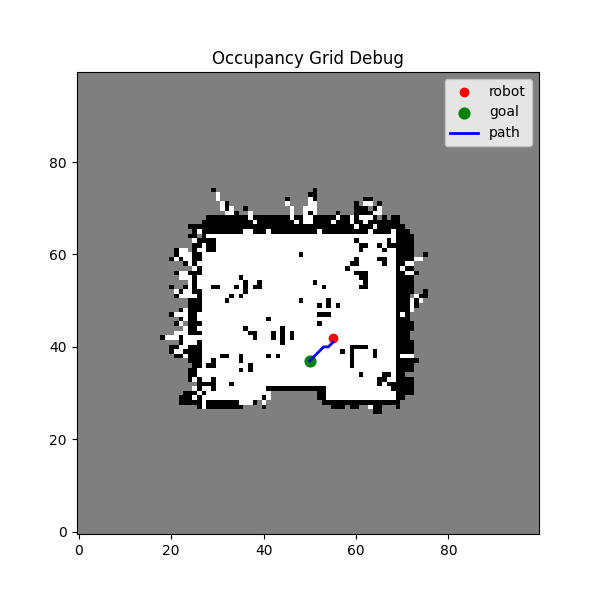
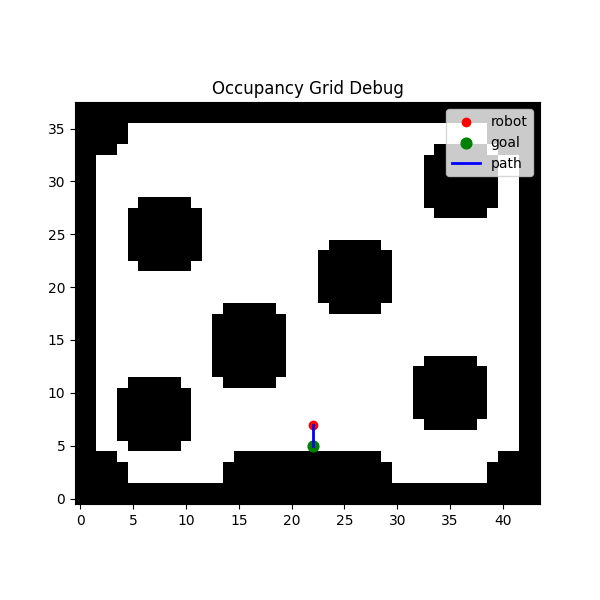
update

diff --git a/trabalho/trabalho/controllers/restaurant_epuck/restaurant_epuck.py b/trabalho/trabalho/controllers/restaurant_epuck/restaurant_epuck.py
@@ -64,7 +64,7 @@ AXLE_LENGTH = 0.052
 
 EXP1_MODE = "EXP1"
 EXP2_MODE = "EXP2"
-EXPERIMENT_MODE = EXP2_MODE
+EXPERIMENT_MODE = EXP1_MODE
 SERVICE_TIME = 2.0
 REQUEST_CHANNEL = 1
 DONE_CHANNEL = 2

diff --git a/trabalho/trabalho/controllers/dynamic_obstacles_manager/dynamic_obstacles_manager.py b/trabalho/trabalho/controllers/dynamic_obstacles_manager/dynamic_obstacles_manager.py
@@ -51,7 +51,7 @@ its LiDAR and proximity sensors.
 """
 
 TIME_STEP = 32
-DYNAMIC_ENVIRONMENT = False
+DYNAMIC_ENVIRONMENT = True
 
 SCENARIO_PERIOD = 95.0
 

diff --git a/trabalho/trabalho/scripts/results/policy_comparison_20260519_230239/policy_comparison_readable.md b/trabalho/trabalho/scripts/results/policy_comparison_20260519_230239/policy_comparison_readable.md
@@ -1,0 +1,73 @@
+# Comparacao das Politicas de Atendimento
+
+Teste realizado sem obstaculos dinamicos ativos (`DYNAMIC_ENVIRONMENT = False`).
+
+Foram comparadas tres politicas:
+
+- **FIFO**: atende os pedidos pela ordem de chegada.
+- **NEAREST**: atende primeiro a mesa mais proxima do robo.
+- **HYBRID**: combina tempo de espera e distancia.
+
+## Ranking final
+
+O ranking foi feito usando o **fair objective**:
+
+```text
+fair_objective = effective_wait_mean + 0.25 * effective_wait_max
+```
+
+Quanto menor o valor, melhor.
+
+| Rank | Politica | Fair objective | Effective wait medio | Effective wait maximo | Wait medio | Pending medio |
+|---:|---|---:|---:|---:|---:|---:|
+| 1 | NEAREST | 163.183s | 86.416s | 307.070s | 34.739s | 189.768s |
+| 2 | HYBRID | 178.566s | 118.934s | 238.530s | 117.970s | 121.730s |
+| 3 | FIFO | 189.288s | 123.040s | 264.990s | 127.060s | 111.382s |
+
+## Leitura rapida
+
+### Melhor resultado global: NEAREST
+
+A politica **NEAREST** teve o melhor resultado no ranking final.
+
+O principal motivo e que reduziu muito o tempo medio de espera dos pedidos servidos:
+
+```text
+NEAREST wait medio = 34.739s
+HYBRID  wait medio = 117.970s
+FIFO    wait medio = 127.060s
+```
+
+Isto mostra que atender a mesa mais proxima torna o robo muito mais eficiente em deslocacoes.
+
+### Trade-off do NEAREST
+
+Apesar de ganhar no resultado global, o **NEAREST** teve mais pedidos pendentes:
+
+```text
+NEAREST pending count = 15
+HYBRID  pending count = 10
+FIFO    pending count = 10
+```
+
+Isto confirma o problema esperado: o NEAREST pode favorecer mesas proximas e deixar algumas mesas mais afastadas a espera durante mais tempo.
+
+### HYBRID como compromisso
+
+O **HYBRID** nao teve o melhor resultado global, mas reduziu o pior caso em relacao ao NEAREST:
+
+```text
+NEAREST effective wait maximo = 307.070s
+HYBRID  effective wait maximo = 238.530s
+```
+
+Isto sugere que a abordagem hibrida pode ser interessante quando queremos evitar esperas extremas, mesmo que o tempo medio piore.
+
+## Conclusao
+
+Neste teste, a melhor politica foi **NEAREST**, porque minimizou bastante o tempo medio de espera dos pedidos servidos.
+
+No entanto, a politica **HYBRID** mostrou-se mais equilibrada em termos de pior caso, sendo uma alternativa relevante se o objetivo for evitar que certas mesas fiquem demasiado tempo sem atendimento.
+
+Assim, para eficiencia geral, a melhor escolha e **NEAREST**. Para maior equilibrio entre eficiencia e justica, vale a pena continuar a afinar a politica **HYBRID**.
+
